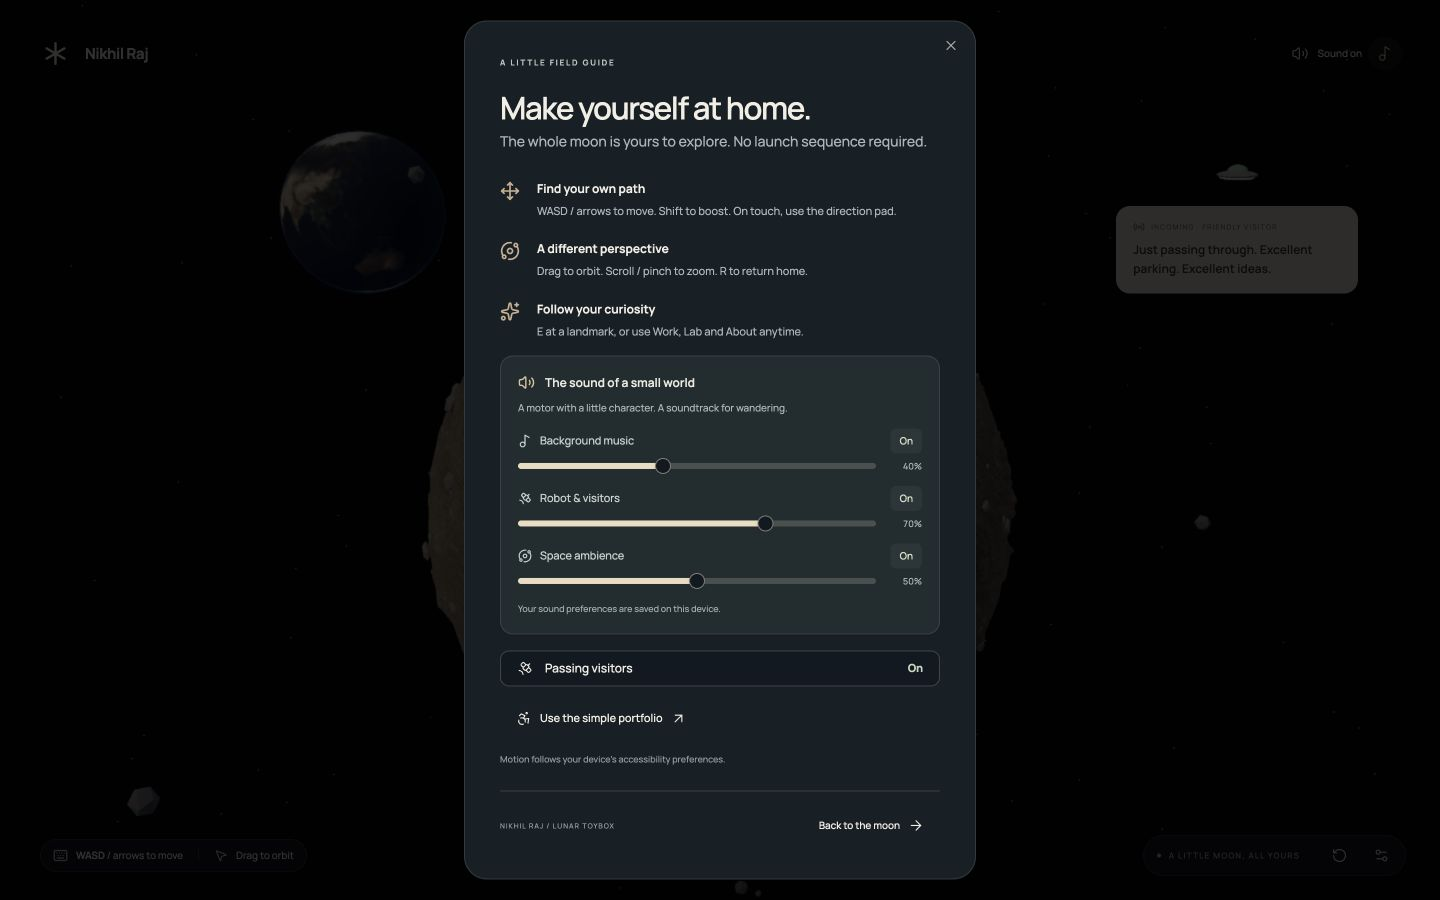
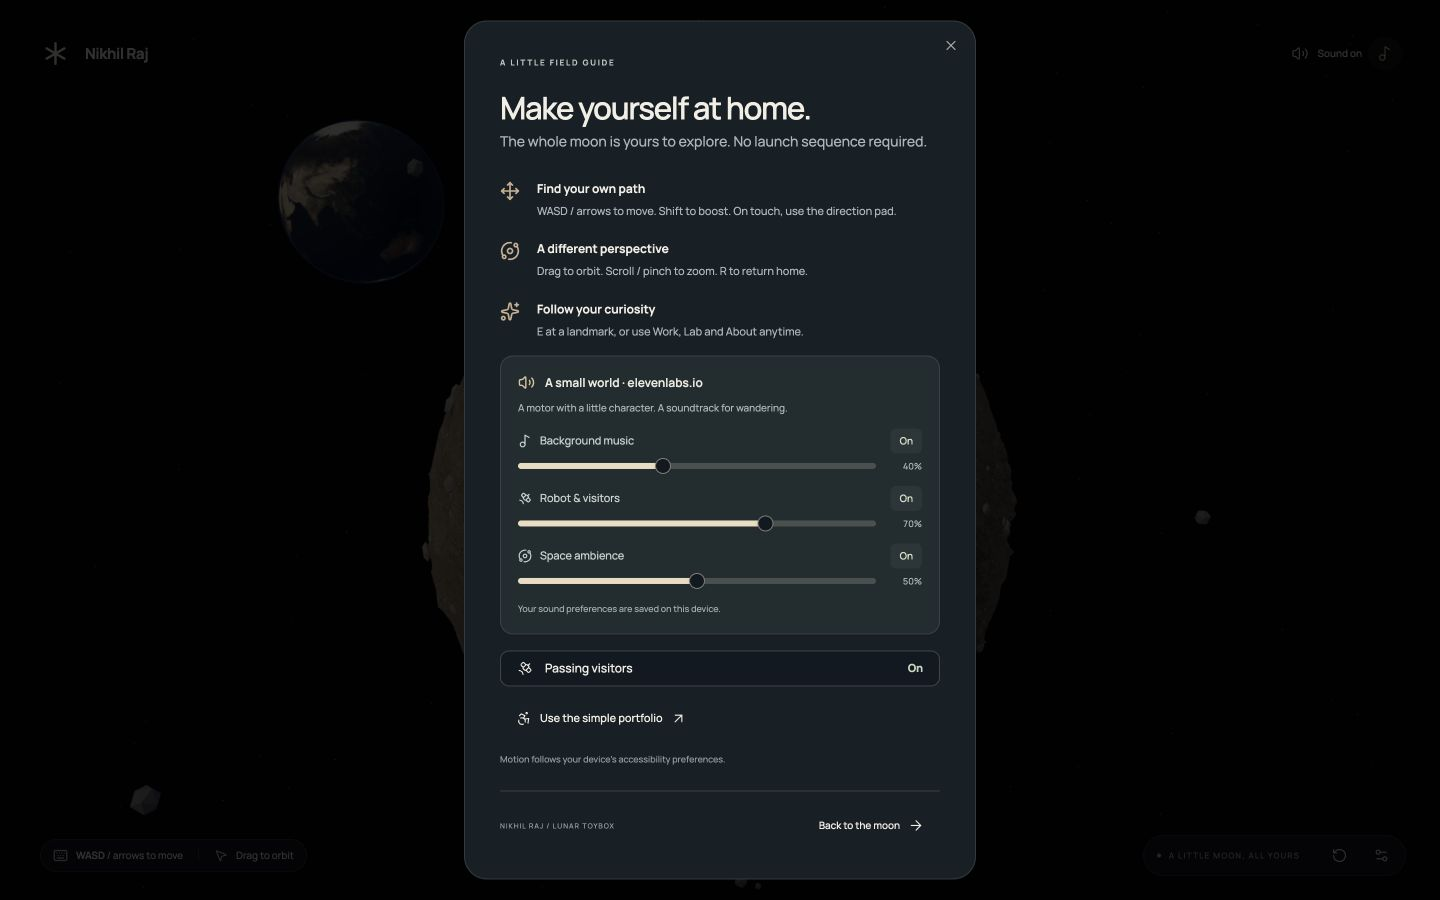
docs: capture the live site and record publication verification

Changed region(s): [[0.75, 0.1867, 0.9688, 0.3422], [0.375, 0.4044, 0.5, 0.4356], [0.2188, 0.1244, 0.25, 0.1556]]

diff --git a/docs/DEPLOYMENT.md b/docs/DEPLOYMENT.md
@@ -18,3 +18,16 @@ The ready-to-enable GitHub Actions template at `docs/ci/validate.yml` tests and 
 `dist/`, `.wrangler/`, environment files, developer logs and dependency directories are ignored. The account ID is an identifier, not a credential. No ElevenLabs API key is needed in production because all audio is generated beforehand.
 
 The `sharp` dependency used by Wrangler/Miniflare is pinned through an override to 0.35.5, addressing the upstream librsvg advisory in the CLI toolchain. It is not shipped to the browser.
+
+## Initial publication verification
+
+Published 8 October 2026 to `nikhil-lunar-toybox.nikhil-063.workers.dev` in Nikhil’s account. Cloudflare version: `88bd5d3f-406b-4971-886d-57d9570ef3f3`.
+
+- 21 automated tests passed and the production TypeScript/Vite build completed.
+- Dependency installation/audit reported zero vulnerabilities after the development-tool override.
+- A deployment dry run passed before publication.
+- The live index, dimensional font, moon texture, Earth texture, startup sound, music and favicon matched the local build byte-for-byte.
+- The live 3D world, first-key movement, music toggle and audio settings were checked in a browser; no runtime errors were reported. Desktop and phone viewports were inspected. This is not a physical-device performance certification.
+- README images were captured from the deployed site.
+
+The repository history is a current-date initial import grouped by subsystem, followed by publication documentation. It does not fabricate earlier development dates. Generated build output and local credentials are excluded from Git.
